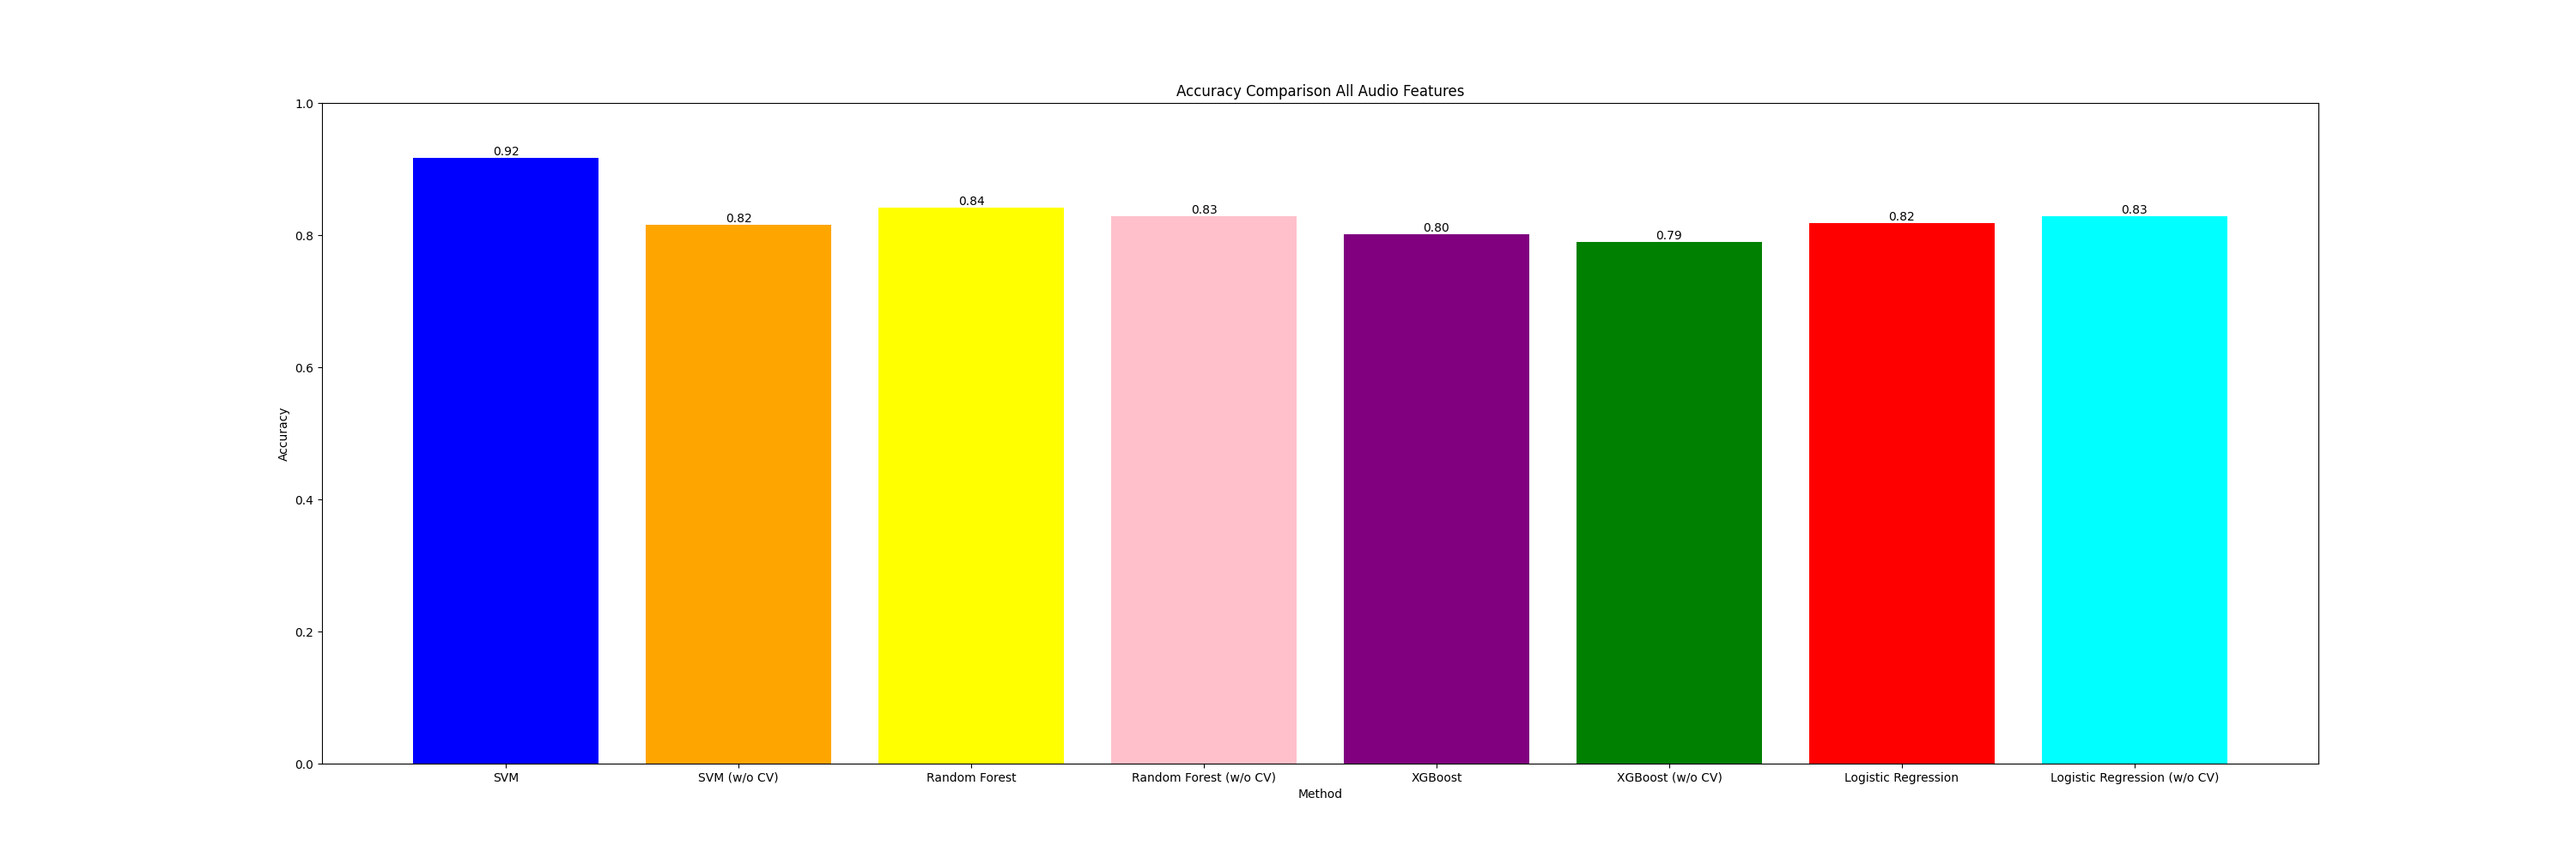
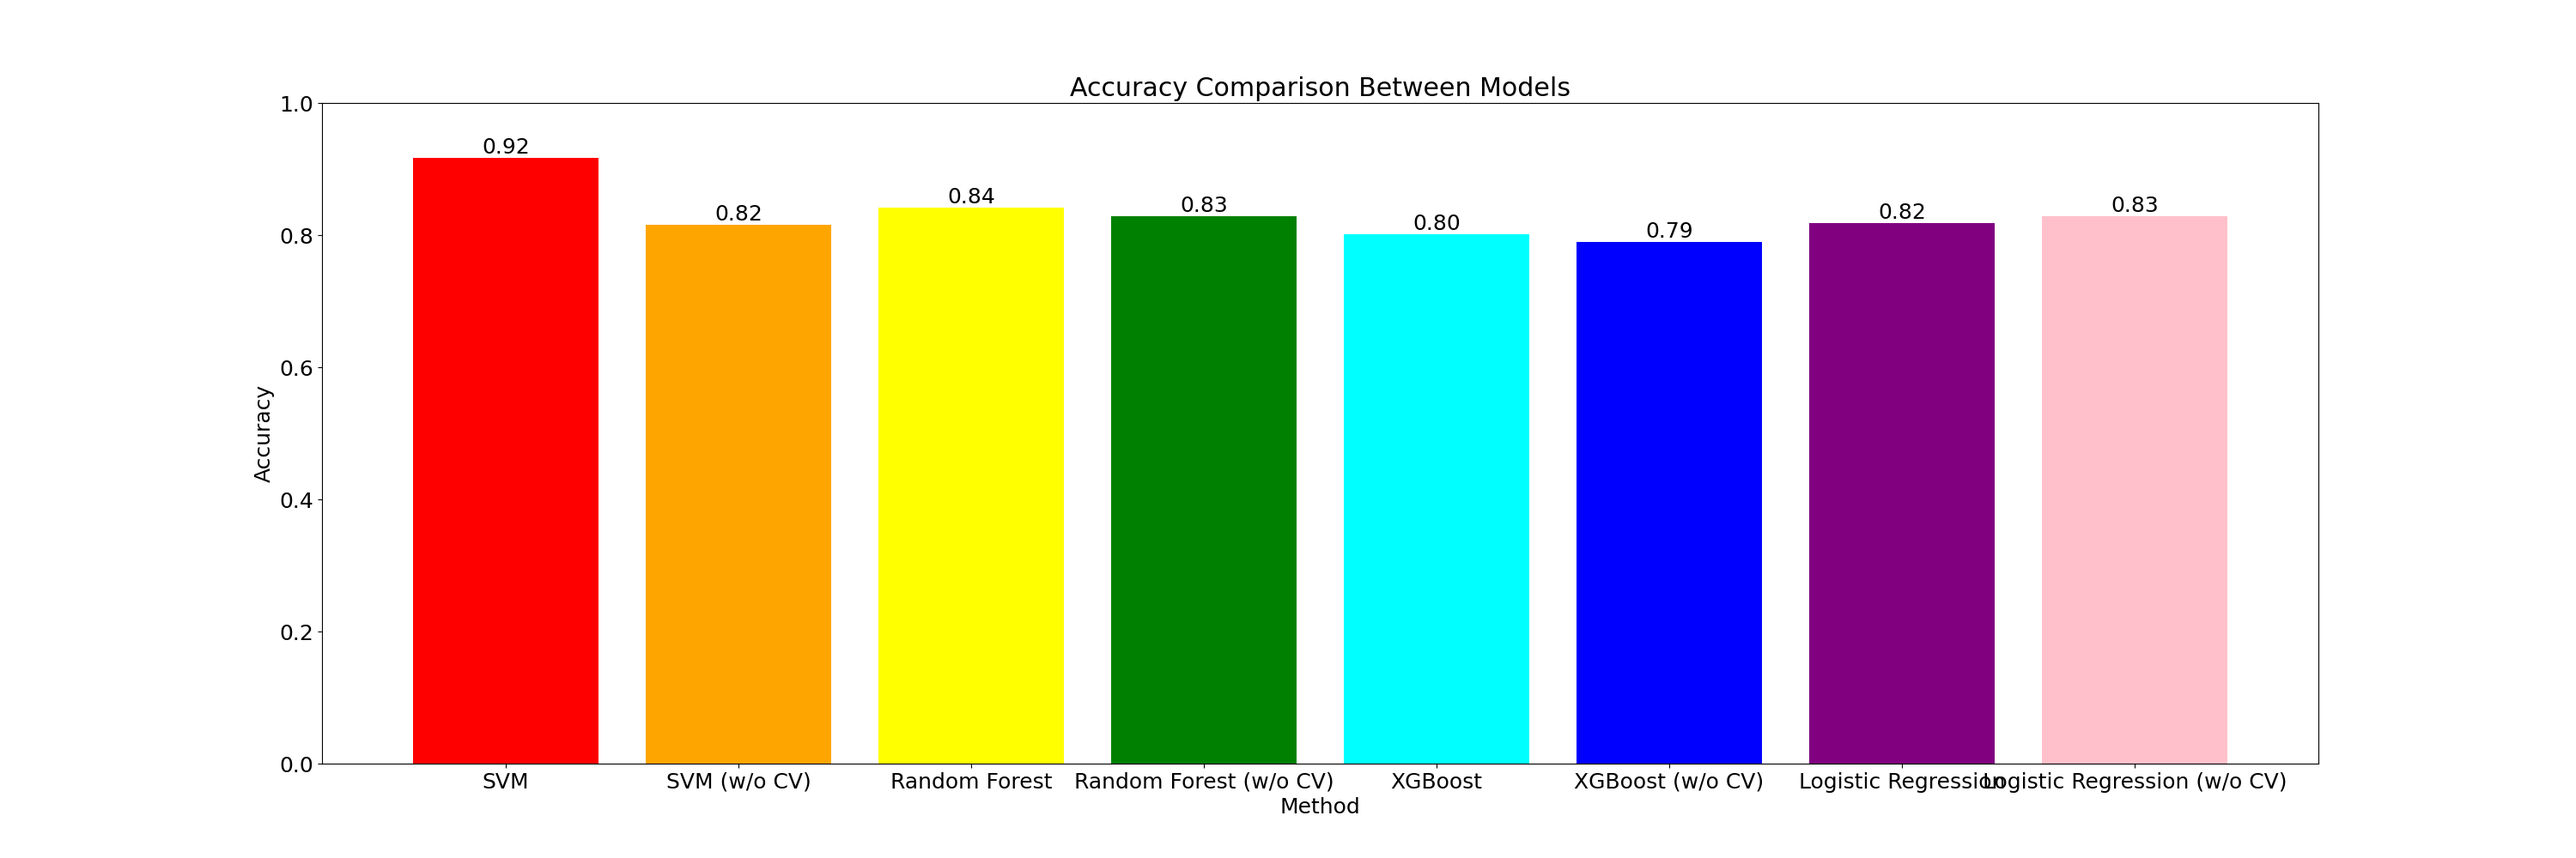
Changing chart appearance

diff --git a/All_Features_All_Models.PY b/All_Features_All_Models.PY
@@ -276,11 +276,14 @@ def run_models(X, Y):
 
 def plot_accuracies(all_accuracies):
     #-------------------------Plotting accuracies---------------------------------------------------
+    FONT_SIZE = 21
+    plt.rc('font', size=FONT_SIZE)  # controls default text sizes
+
     # Plotting accuracies
-    methods = ['SVM', 'SVM (w/o CV)', 'Random Forest', 'Random Forest (w/o CV)', 'XGBoost', 'XGBoost (w/o CV)', 'Logistic Regression', 'Logistic Regression (w/o CV)']
+    methods = ['SVM', 'SVM (w/o CV)', 'RF', 'RF (w/o CV)', 'XGBoost', 'XGBoost (w/o CV)', 'LR', 'LR (w/o CV)']
     plt.figure(figsize=(30, 10))
-    bars = plt.bar(methods, all_accuracies, color=['blue', 'orange', 'yellow', 'pink', 'purple', 'green', 'red', 'cyan'])
-    plt.title('Accuracy Comparison All Audio Features')
+    bars = plt.bar(methods, all_accuracies, color=['red', 'orange', 'yellow', 'green', 'cyan', 'blue', 'purple', 'pink'])
+    plt.title('Accuracy Comparison Between Models')
     plt.xlabel('Method')
     plt.ylabel('Accuracy')
     plt.ylim(0, 1)
